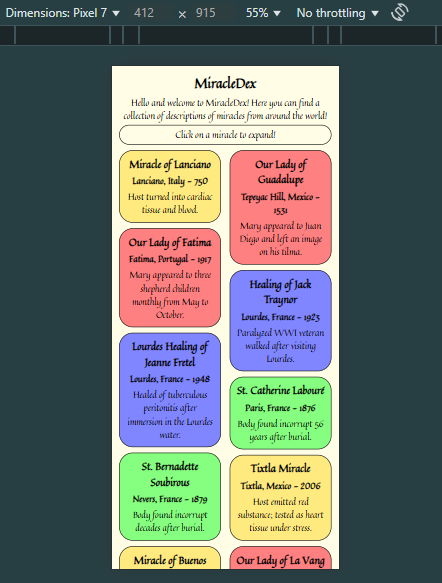
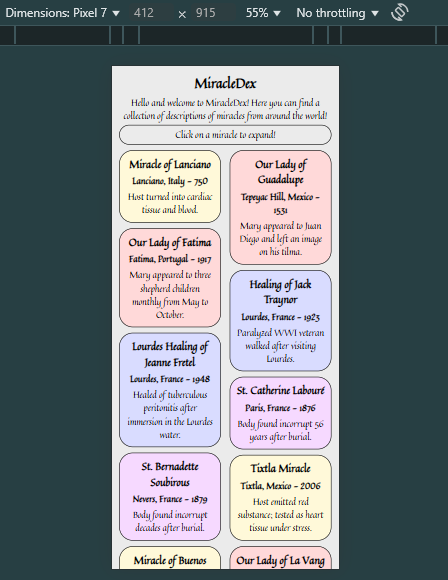
Updated CSS and styling, code formatting. Images redone to reflect these edits

diff --git a/index.js b/index.js
@@ -2,9 +2,9 @@
 I came so close to asking ChatGPT on multiple occasions,
 until I thought "Wait, what if I just looked that up?"
  */
-
 async function loadMiracles () {
-	const res = await fetch("https://gist.githubusercontent.com/trevortomesh/7bbf97b2fbae96639ebf1a254b6a7a70/raw/miracles.json");
+	const res = await fetch("https://gist.githubusercontent.com/trevortomesh/" +
+		"7bbf97b2fbae96639ebf1a254b6a7a70/raw/miracles.json");
 	const data = await res.json();
 	console.log(data);
 	renderMiracles(data, "first"); // Go to the first page
@@ -29,7 +29,9 @@ function displayBrick (id) {
 	display.classList.add('display'); // This is used to avoid the hovering style change
 	display.innerHTML = ''; // Clear out element
 
-	[['h1', miracle.title], ['h2', miracle.type + ': ' + miracle.category], ['h3', miracle.location + ' - ' + miracle.year], ['p', miracle.summary], ['p', miracle.details]].forEach(pair => {
+	[['h1', miracle.title], ['h2', miracle.type + ': ' + miracle.category],
+		['h3', miracle.location + ' - ' + miracle.year], ['p', miracle.summary],
+		['p', miracle.details]].forEach(pair => {
 		display.appendChild(makeHTMLElement(pair)); // Add all the elements
 	});
 }
@@ -51,7 +53,7 @@ function renderMiracles (data, half) {
 	} else if (half === "second") {
 		myData = data.slice(midpoint, data.length);
 	} else {
-		alert("Error in determining which page to load!") // Should always be there, so must be an error
+		alert("Error in determining which page to load!") // Should always be there
 	}
 
 	myData.forEach(miracle => {
@@ -60,17 +62,20 @@ function renderMiracles (data, half) {
 		brick.classList.add('brick');
 		brick.classList.add(subclasses[miracle.type]); // Special coloring
 
-		[['h3', miracle.title], ['h4', miracle.location + ' - ' + miracle.year], ['p', miracle.summary]].forEach(pair => {
+		[['h3', miracle.title], ['h4', miracle.location + ' - ' + miracle.year],
+			['p', miracle.summary]].forEach(pair => {
 			brick.appendChild(makeHTMLElement(pair)); // Add all the elements
 		});
-		brick.addEventListener('click', () => {displayBrick(brick.id)}); // For putting them at the top of the page
+
+		// For putting them at the top of the page
+		brick.addEventListener('click', () => {displayBrick(brick.id)});
 
 		wall.appendChild(brick);
 	})
 }
 
-const buttons = document.getElementsByTagName('button'); // Add paging functionality to buttons
-for (let button of buttons) {
+const buttons = document.getElementsByTagName('button');
+for (let button of buttons) { // Add paging functionality to buttons
 	button.addEventListener('click', () => {renderMiracles(miracles, button.id)});
 }
 
@@ -87,3 +92,4 @@ Reference data
     category: 'Incorrupt host'
 }
  */
+

diff --git a/index.css b/index.css
@@ -1,5 +1,5 @@
 body {
-    background-color: #fffde6;
+    background-color: #ebebeb;
     font-family: "Quintessential", serif;
     text-align: center;
 }
@@ -49,16 +49,19 @@ button {
     @media (max-width: 480px) {
         column-count: 2;
     }
+    @media (max-width: 380px) {
+        column-count: 1;
+    }
 }
 .apparition {
-    background-color: #ff8080;
+    background-color: #ffd9d9;
 }
 .healing {
-    background-color: #8086ff;
+    background-color: #d9dcff;
 }
 .eucharistic {
-    background-color: #ffea80;
+    background-color: #fff9d9;
 }
 .incorruptible {
-    background-color: #86ff80;
+    background-color: #f6d9ff;
 }

diff --git a/README.md b/README.md
@@ -1,11 +1,17 @@
 # ✨ MiracleDex Project Report
 
-**Student Name:**  Michael Martinez<br>
-**Course:** CSCI 270 – Web/Mobile App Development<br> 
-**Project Title:** MiracleDex<br>
-**Submission Date:**  6/11/2025<br>
-**GitHub Repo:** [GitHub](https://github.com/AragornFire/miracledex)<br>
-**Live Site (GitHub Pages):** [MiracleDex](https://aragornfire.github.io/miracledex/)<br>
+**Student Name:**  Michael Martinez
+
+**Course:** CSCI 270 – Web/Mobile App Development
+
+**Project Title:** MiracleDex
+
+**Submission Date:**  6/11/2025
+
+**GitHub Repo:** [GitHub](https://github.com/AragornFire/miracledex)
+
+**Live Site (GitHub Pages):** [MiracleDex](https://aragornfire.github.io/miracledex/)
+
 **ChatGPT Help:** [Fixing masonry and failed mobile media queries](https://chatgpt.com/share/68488080-12c8-800d-8396-d5b09c4ddbd5)
 
 ---
@@ -26,11 +32,10 @@
 ### 🔍 Code Snippets
 ```html
 <!-- Most relevant code is generated by JavaScript, which would look like this: -->
-<div id="5" class="brick eucharistic">
-    <h3>Miracle of Buenos Aires</h3>
-    <h4>Buenos Aires, Argentina</h4>
-    <p>1996</p>
-    <p>Host turned into bloody tissue; tested positive for human heart muscle.</p>
+<div id="15" class="brick healing">
+  <h3>Healing of Anna Santaniello</h3>
+  <h4>Italy - 1952</h4>
+  <p>Healed of severe heart disease during pilgrimage to Lourdes.</p>
 </div>
 ```
 ```css
@@ -40,27 +45,36 @@
     box-sizing: border-box;
     margin-bottom: 10px;
 
-    border-radius: 25px;
     border: 1px solid black;
+    border-radius: 25px;
 
     transition: background-color 200ms, color 200ms;
 }
 .brick:hover:not(.display) {
-  background-color: #333333;
-  color: white;
-  cursor: pointer;
+    background-color: #333333;
+    color: white;
+    cursor: pointer;
+}
+.wall {
+    column-count: 3;
+    @media (max-width: 480px) {
+        column-count: 2;
+    }
+    @media (max-width: 380px) {
+        column-count: 1;
+    }
 }
 .apparition {
-    background-color: #ff8080;
+    background-color: #ffd9d9;
 }
 .healing {
-    background-color: #8086ff;
+    background-color: #d9dcff;
 }
 .eucharistic {
-    background-color: #ffea80;
+    background-color: #fff9d9;
 }
 .incorruptible {
-    background-color: #86ff80;
+    background-color: #f6d9ff;
 }
 ```
 
@@ -96,7 +110,8 @@ What did you learn about structuring HTML/CSS for real-world use?
 ### 🔍 Code Snippets
 ```javascript
 async function loadMiracles () {
-	const res = await fetch("https://gist.githubusercontent.com/trevortomesh/7bbf97b2fbae96639ebf1a254b6a7a70/raw/miracles.json");
+	const res = await fetch("https://gist.githubusercontent.com/trevortomesh/" +
+		"7bbf97b2fbae96639ebf1a254b6a7a70/raw/miracles.json");
 	const data = await res.json();
 	console.log(data);
 	renderMiracles(data, "first"); // Go to the first page
@@ -121,7 +136,9 @@ function displayBrick (id) {
 	display.classList.add('display'); // This is used to avoid the hovering style change
 	display.innerHTML = ''; // Clear out element
 
-	[['h1', miracle.title], ['h2', miracle.type + ': ' + miracle.category], ['h3', miracle.location + ' - ' + miracle.year], ['p', miracle.summary], ['p', miracle.details]].forEach(pair => {
+	[['h1', miracle.title], ['h2', miracle.type + ': ' + miracle.category],
+		['h3', miracle.location + ' - ' + miracle.year], ['p', miracle.summary],
+		['p', miracle.details]].forEach(pair => {
 		display.appendChild(makeHTMLElement(pair)); // Add all the elements
 	});
 }
@@ -143,7 +160,7 @@ function renderMiracles (data, half) {
 	} else if (half === "second") {
 		myData = data.slice(midpoint, data.length);
 	} else {
-		alert("Error in determining which page to load!") // Should always be there, so must be an error
+		alert("Error in determining which page to load!") // Should always be there
 	}
 
 	myData.forEach(miracle => {
@@ -152,17 +169,20 @@ function renderMiracles (data, half) {
 		brick.classList.add('brick');
 		brick.classList.add(subclasses[miracle.type]); // Special coloring
 
-		[['h3', miracle.title], ['h4', miracle.location + ' - ' + miracle.year], ['p', miracle.summary]].forEach(pair => {
+		[['h3', miracle.title], ['h4', miracle.location + ' - ' + miracle.year],
+			['p', miracle.summary]].forEach(pair => {
 			brick.appendChild(makeHTMLElement(pair)); // Add all the elements
 		});
-		brick.addEventListener('click', () => {displayBrick(brick.id)}); // For putting them at the top of the page
+
+		// For putting them at the top of the page
+		brick.addEventListener('click', () => {displayBrick(brick.id)});
 
 		wall.appendChild(brick);
 	})
 }
 
-const buttons = document.getElementsByTagName('button'); // Add paging functionality to buttons
-for (let button of buttons) {
+const buttons = document.getElementsByTagName('button');
+for (let button of buttons) { // Add paging functionality to buttons
 	button.addEventListener('click', () => {renderMiracles(miracles, button.id)});
 }
 ```
